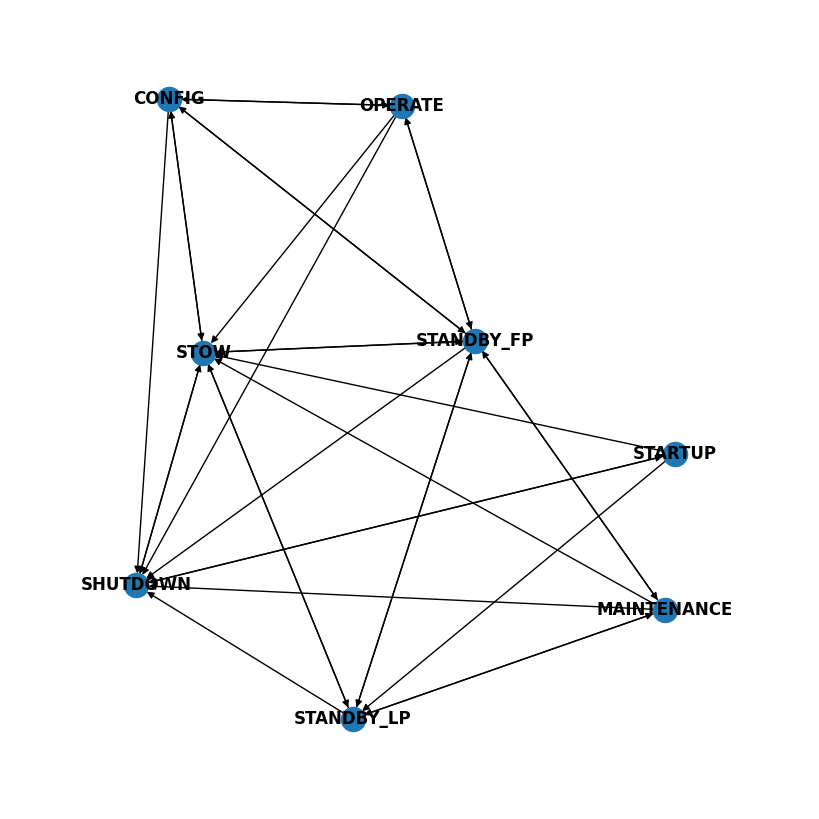
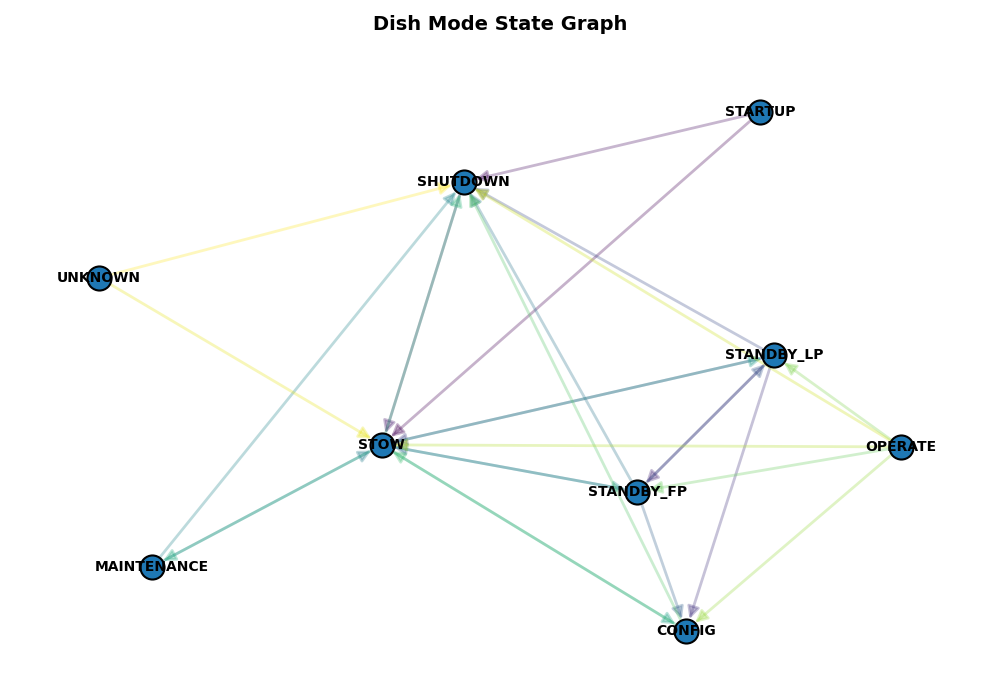
KAR-1712 update dish mode model docs

diff --git a/docs/src/developer_guide/command_fanout/dish_mode_model.rst b/docs/src/developer_guide/command_fanout/dish_mode_model.rst
@@ -13,9 +13,6 @@ The ``DishModeModel`` is an abstraction of the allowed states from a current sta
   :height: 400
   :alt: Dish Mode Transitions
 
-.. note::
-  OFF is no longer a mode transitioned from.
-
 The image below shows ALL the possible mode transitions generated from the ``DishModeModel``
 (see README on how to generate the graph).
 
